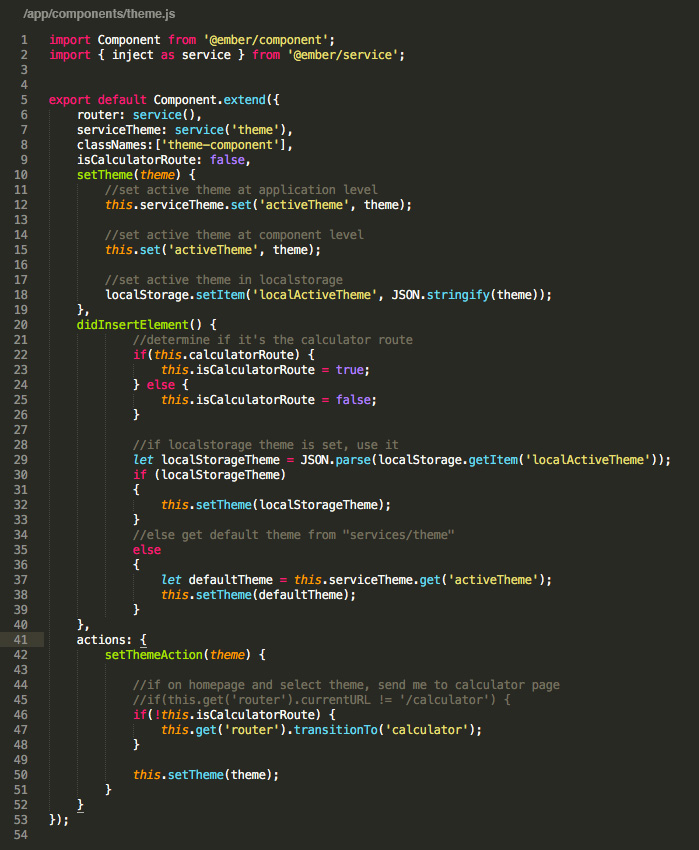
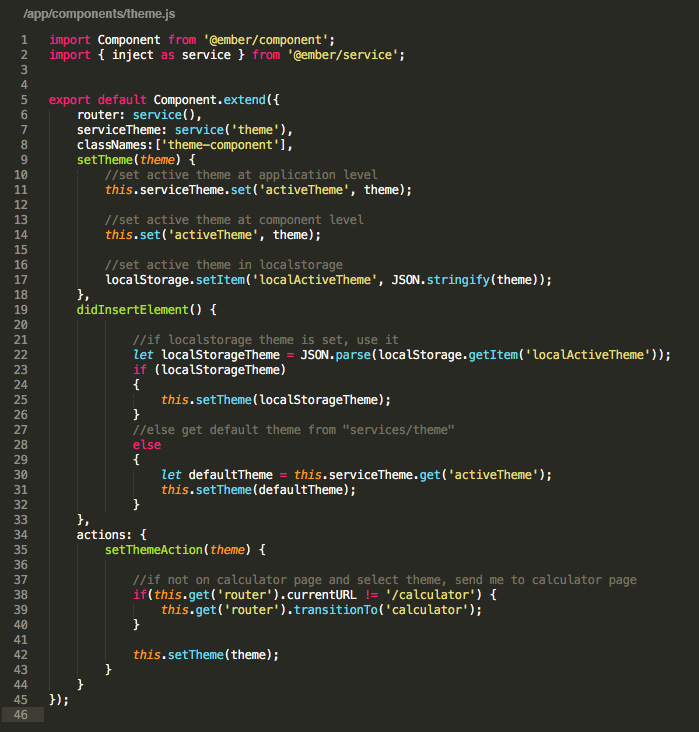
integration test - calculator - remove "isCalculatorPage" variable for determining URL.  Update test and documentation

Changed region(s): [[0.0, 0.0, 0.9614, 0.9918]]

diff --git a/app/components/theme.js b/app/components/theme.js
@@ -6,7 +6,6 @@ export default Component.extend({
 	router: service(),
 	serviceTheme: service('theme'),
 	classNames:['theme-component'],
-	isCalculatorRoute: false,
 	setTheme(theme) {
 		//set active theme at application level
 		this.serviceTheme.set('activeTheme', theme);
@@ -18,12 +17,6 @@ export default Component.extend({
 		localStorage.setItem('localActiveTheme', JSON.stringify(theme));
 	},
 	didInsertElement() {
-			//determine if it's the calculator route
-			if(this.calculatorRoute) {
-				this.isCalculatorRoute = true;
-			} else {
-				this.isCalculatorRoute = false;
-			}
 
 			//if localstorage theme is set, use it
 			let localStorageTheme = JSON.parse(localStorage.getItem('localActiveTheme'));
@@ -41,9 +34,8 @@ export default Component.extend({
 	actions: {
 		setThemeAction(theme) {
 
-			//if on homepage and select theme, send me to calculator page
-			//if(this.get('router').currentURL != '/calculator') {
-			if(!this.isCalculatorRoute) {
+			//if not on calculator page and select theme, send me to calculator page
+			if(this.get('router').currentURL != '/calculator') {
 				this.get('router').transitionTo('calculator');
 			}
 			

diff --git a/tests/integration/components/theme-test.js b/tests/integration/components/theme-test.js
@@ -10,6 +10,8 @@ module('Integration | Component | theme', function(hooks) {
   test('Themes are loaded and activeTheme is selected in <select> menu', async function(assert) {
     assert.expect(2);
 
+    this.owner.lookup('router:main').setupRouter();
+
     let themes = [
       {'class-name': 'light', 'name': 'Light'}, 
       {'class-name': 'dark', 'name': 'Dark'}, 
@@ -22,9 +24,8 @@ module('Integration | Component | theme', function(hooks) {
 
     this.set('activeTheme',activeTheme);
     this.set('themes', themes);
-    this.set('calculatorRoute', true);
 
-    await render(hbs `<Theme @themes={{themes}} @activeTheme={{activeTheme}} @onChange={{action (mut activeTheme)}} @calculatorRoute={{calculatorRoute}} />`);
+    await render(hbs `<Theme @themes={{themes}} @activeTheme={{activeTheme}} @onChange={{action (mut activeTheme)}} />`);
 
     //ON LOAD
     let optionSelectedValue = this.element.querySelector('option:checked').value;

diff --git a/app/routes/calculator.js b/app/routes/calculator.js
@@ -3,7 +3,6 @@ import Route from '@ember/routing/route';
 export default Route.extend({
 	model() {
 		return ({
-			calculatorRoute: true,
 			allThemes: this.store.findAll('theme')
 		});
 	}

diff --git a/README.md b/README.md
@@ -76,14 +76,10 @@ Specify what it takes to deploy your app.
 * `localStorageTheme.setItem('localActiveTheme'...`  will set the "localActiveTheme" value in localstorage.
 
 ### didInsertElement(){ }
-* `this.calculatorRoute` variable is set inside "routes/calculator.js".  Every time the "theme" component is called, it will know if it is currently on the "/calculator" page or not.
-
-* `this.isCalculatorRoute` will update to "true" or "false" depending on what page the user is currently on.  It is used as a roundabout way to trigger the if statement inside "actions:setThemeAction()" without generating routing errors during integration tests.
-
 * `localStorageTheme` variable gets "localActiveTheme" from localstorage.  The app will remember what the latest "activeTheme"  is when navigating through the pages or coming back at a later date.  If "localActiveTheme" is not defined, it will be set to "default" ("default" is set in "app/services/theme.js").
 
 ### actions: setThemeAction(theme){ }
-* `if(!this.isCalculatorRoute)`  If a user is not on the "/calculator" page, they will be redirected when selecting a theme from the `<select>` menu.  If already on the "/calculator" page, it will change the "activeTheme" without redirecting.
+* `if(this.get('router').currentURL != '/calculator')`  If a user is not on the "/calculator" page, they will be redirected when selecting a theme from the `<select>` menu.  If already on the "/calculator" page, it will change the "activeTheme" without redirecting.
   
 * `this.setTheme(theme)`  calls "setTheme(theme)" method.  It is triggered using the "onChange" method when a user selects a theme from the `<select>` menu...     `<select id="ChooseTheme" class="form-control" onChange={{action "setThemeAction" value="target.value"}}>`
 
